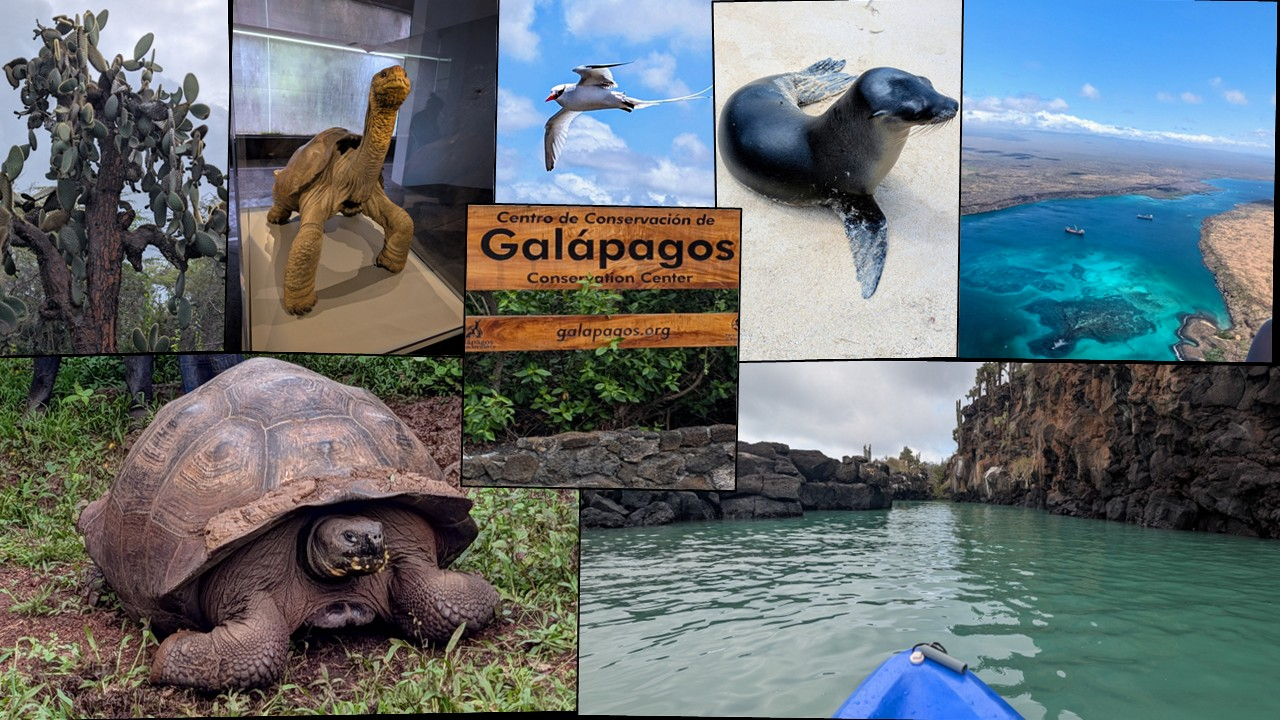
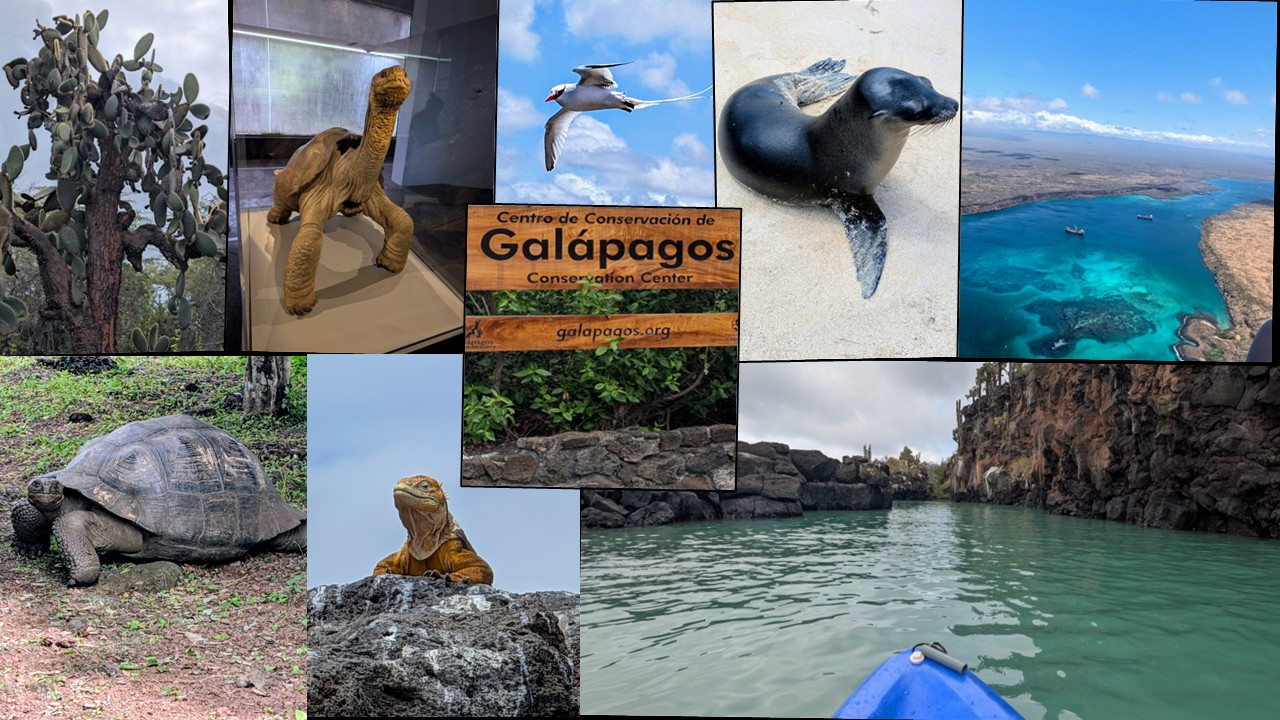
update hero again

Changed region(s): [[0.0, 0.4889, 0.4688, 1.0]]

diff --git a/_posts/2026-08-07-galapagos-field-notes.md b/_posts/2026-08-07-galapagos-field-notes.md
@@ -10,7 +10,7 @@ subtitle: "Isolation created wonders. Fragility remains their constant companion
 thumbnail:
   layout: duo
   img1: /assets/images/galapagos/iguana.jpg
-  img2: /assets/images/galapagos/seal.jpg
+  img2: /assets/images/galapagos/giant-tortoise.jpg
   alt: "Galápagos wildlife"
 
 hero_image: /assets/images/galapagos/hero1.jpg
